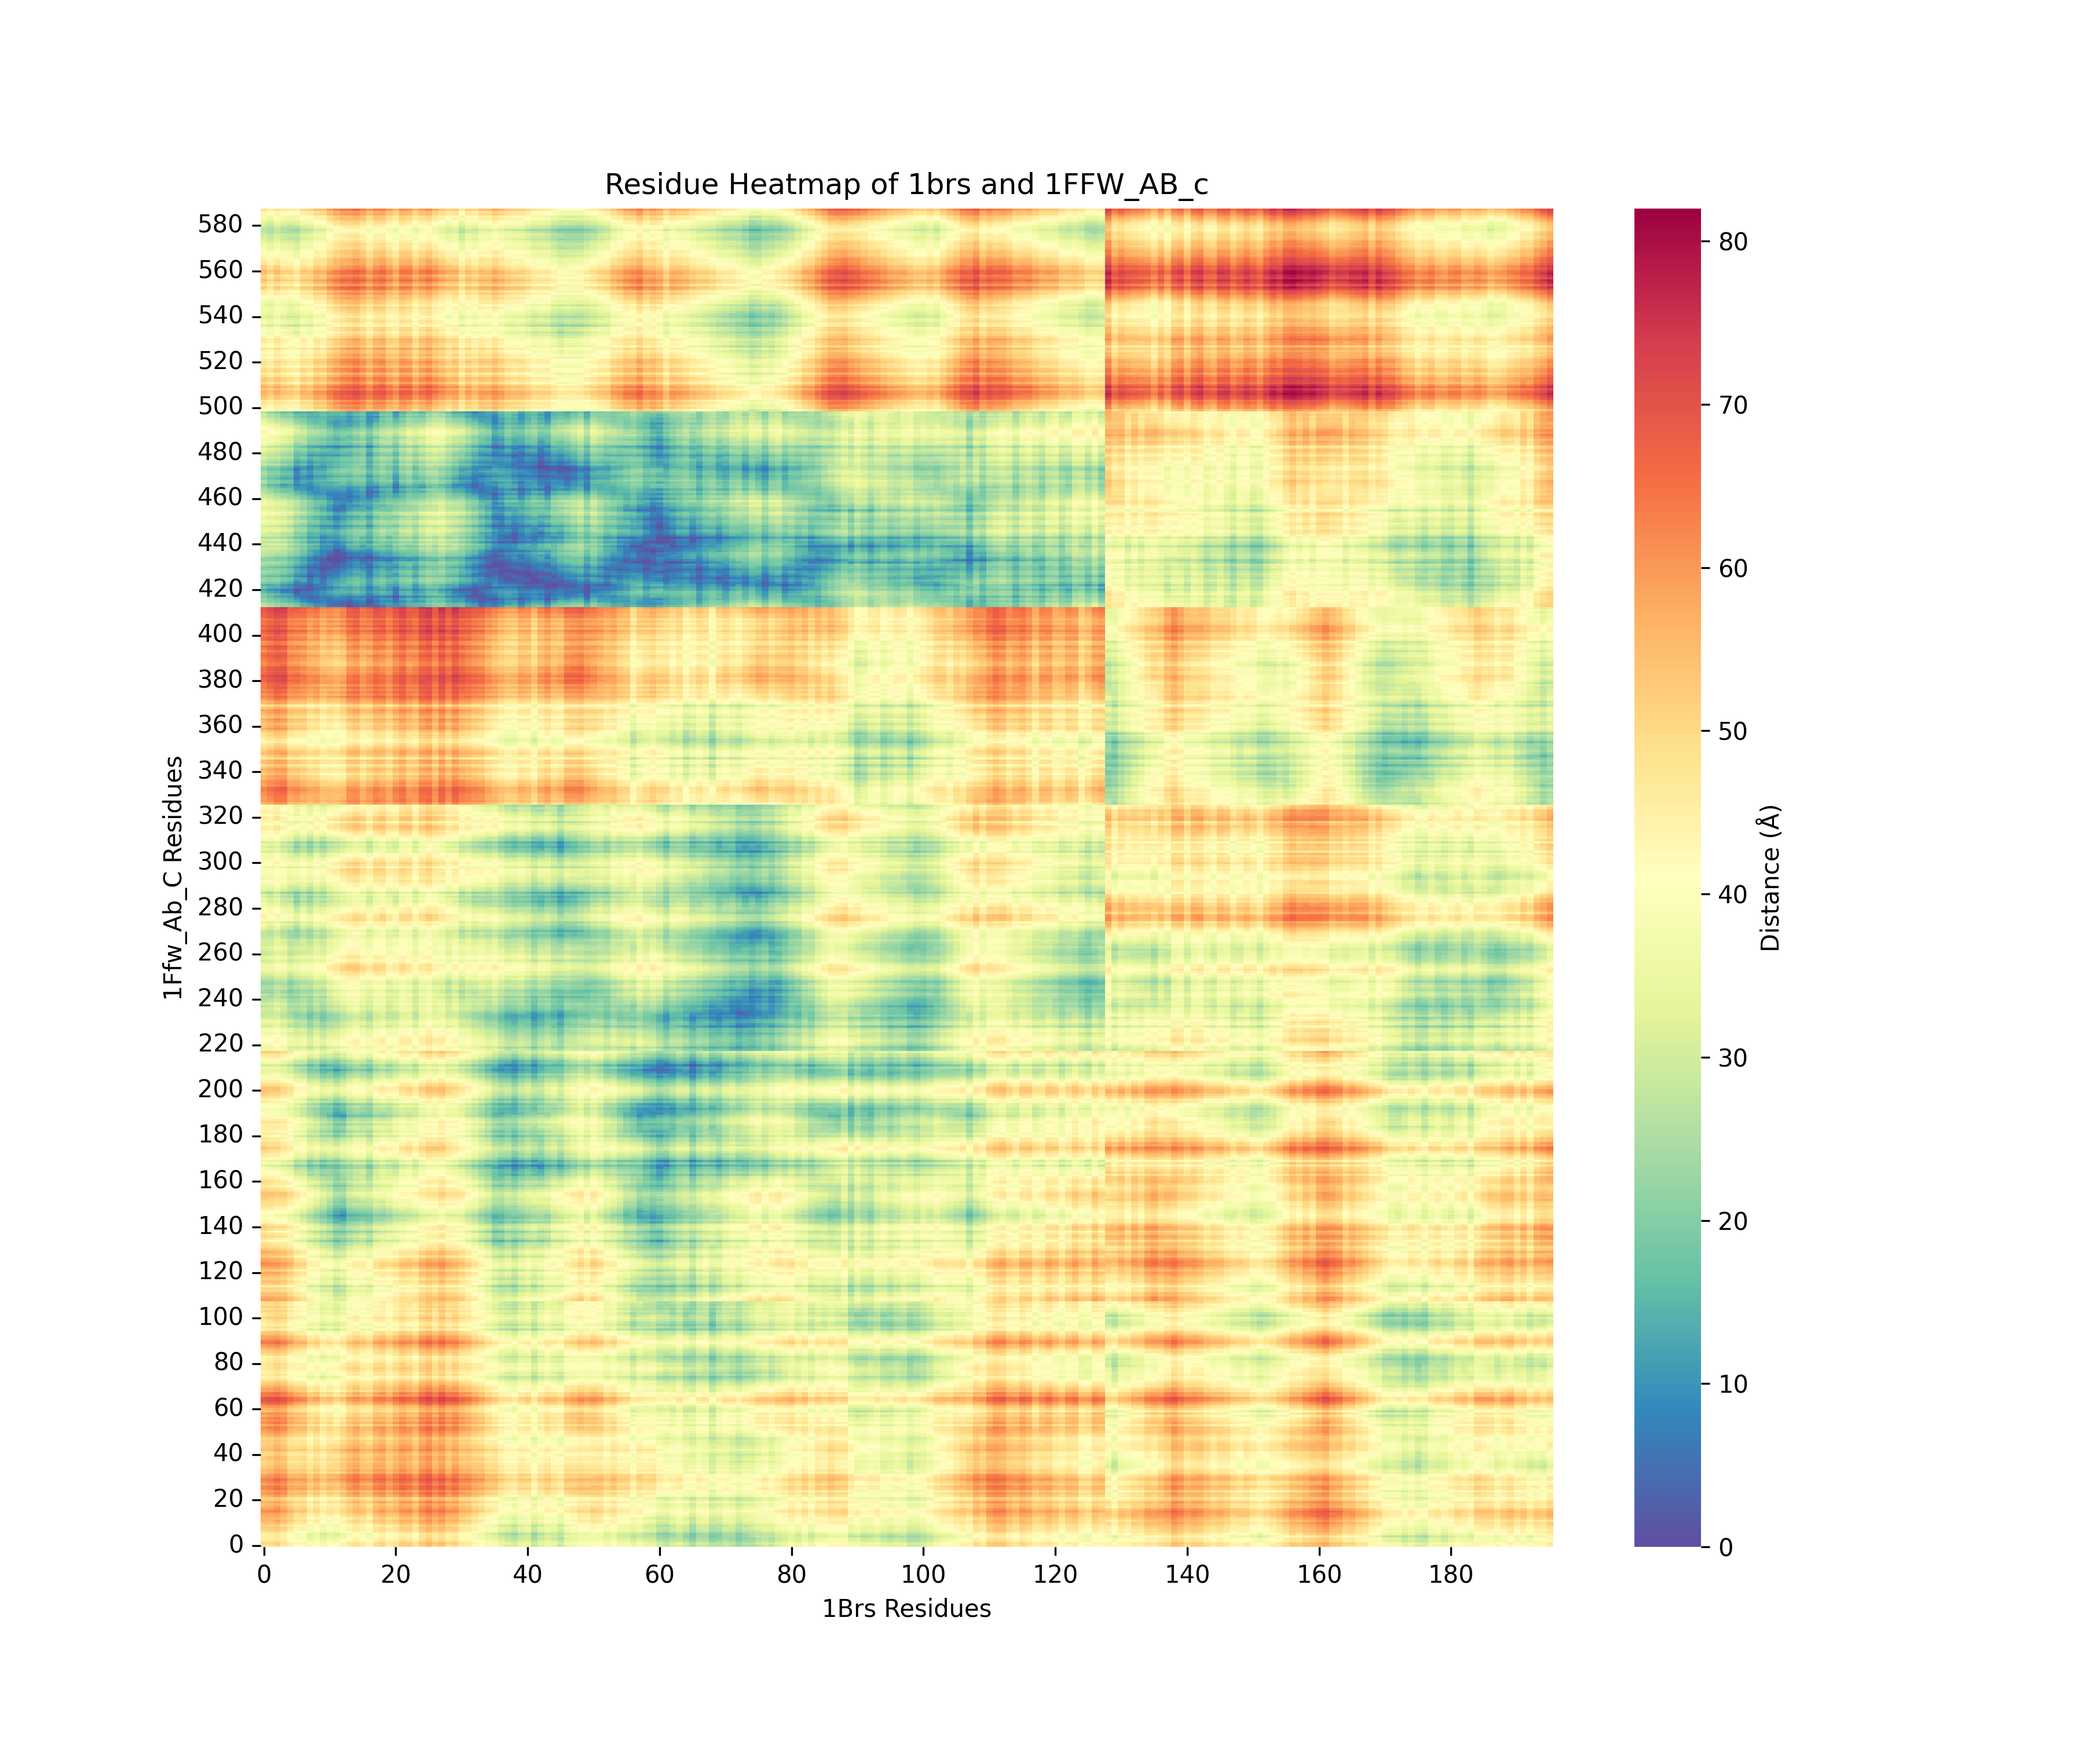
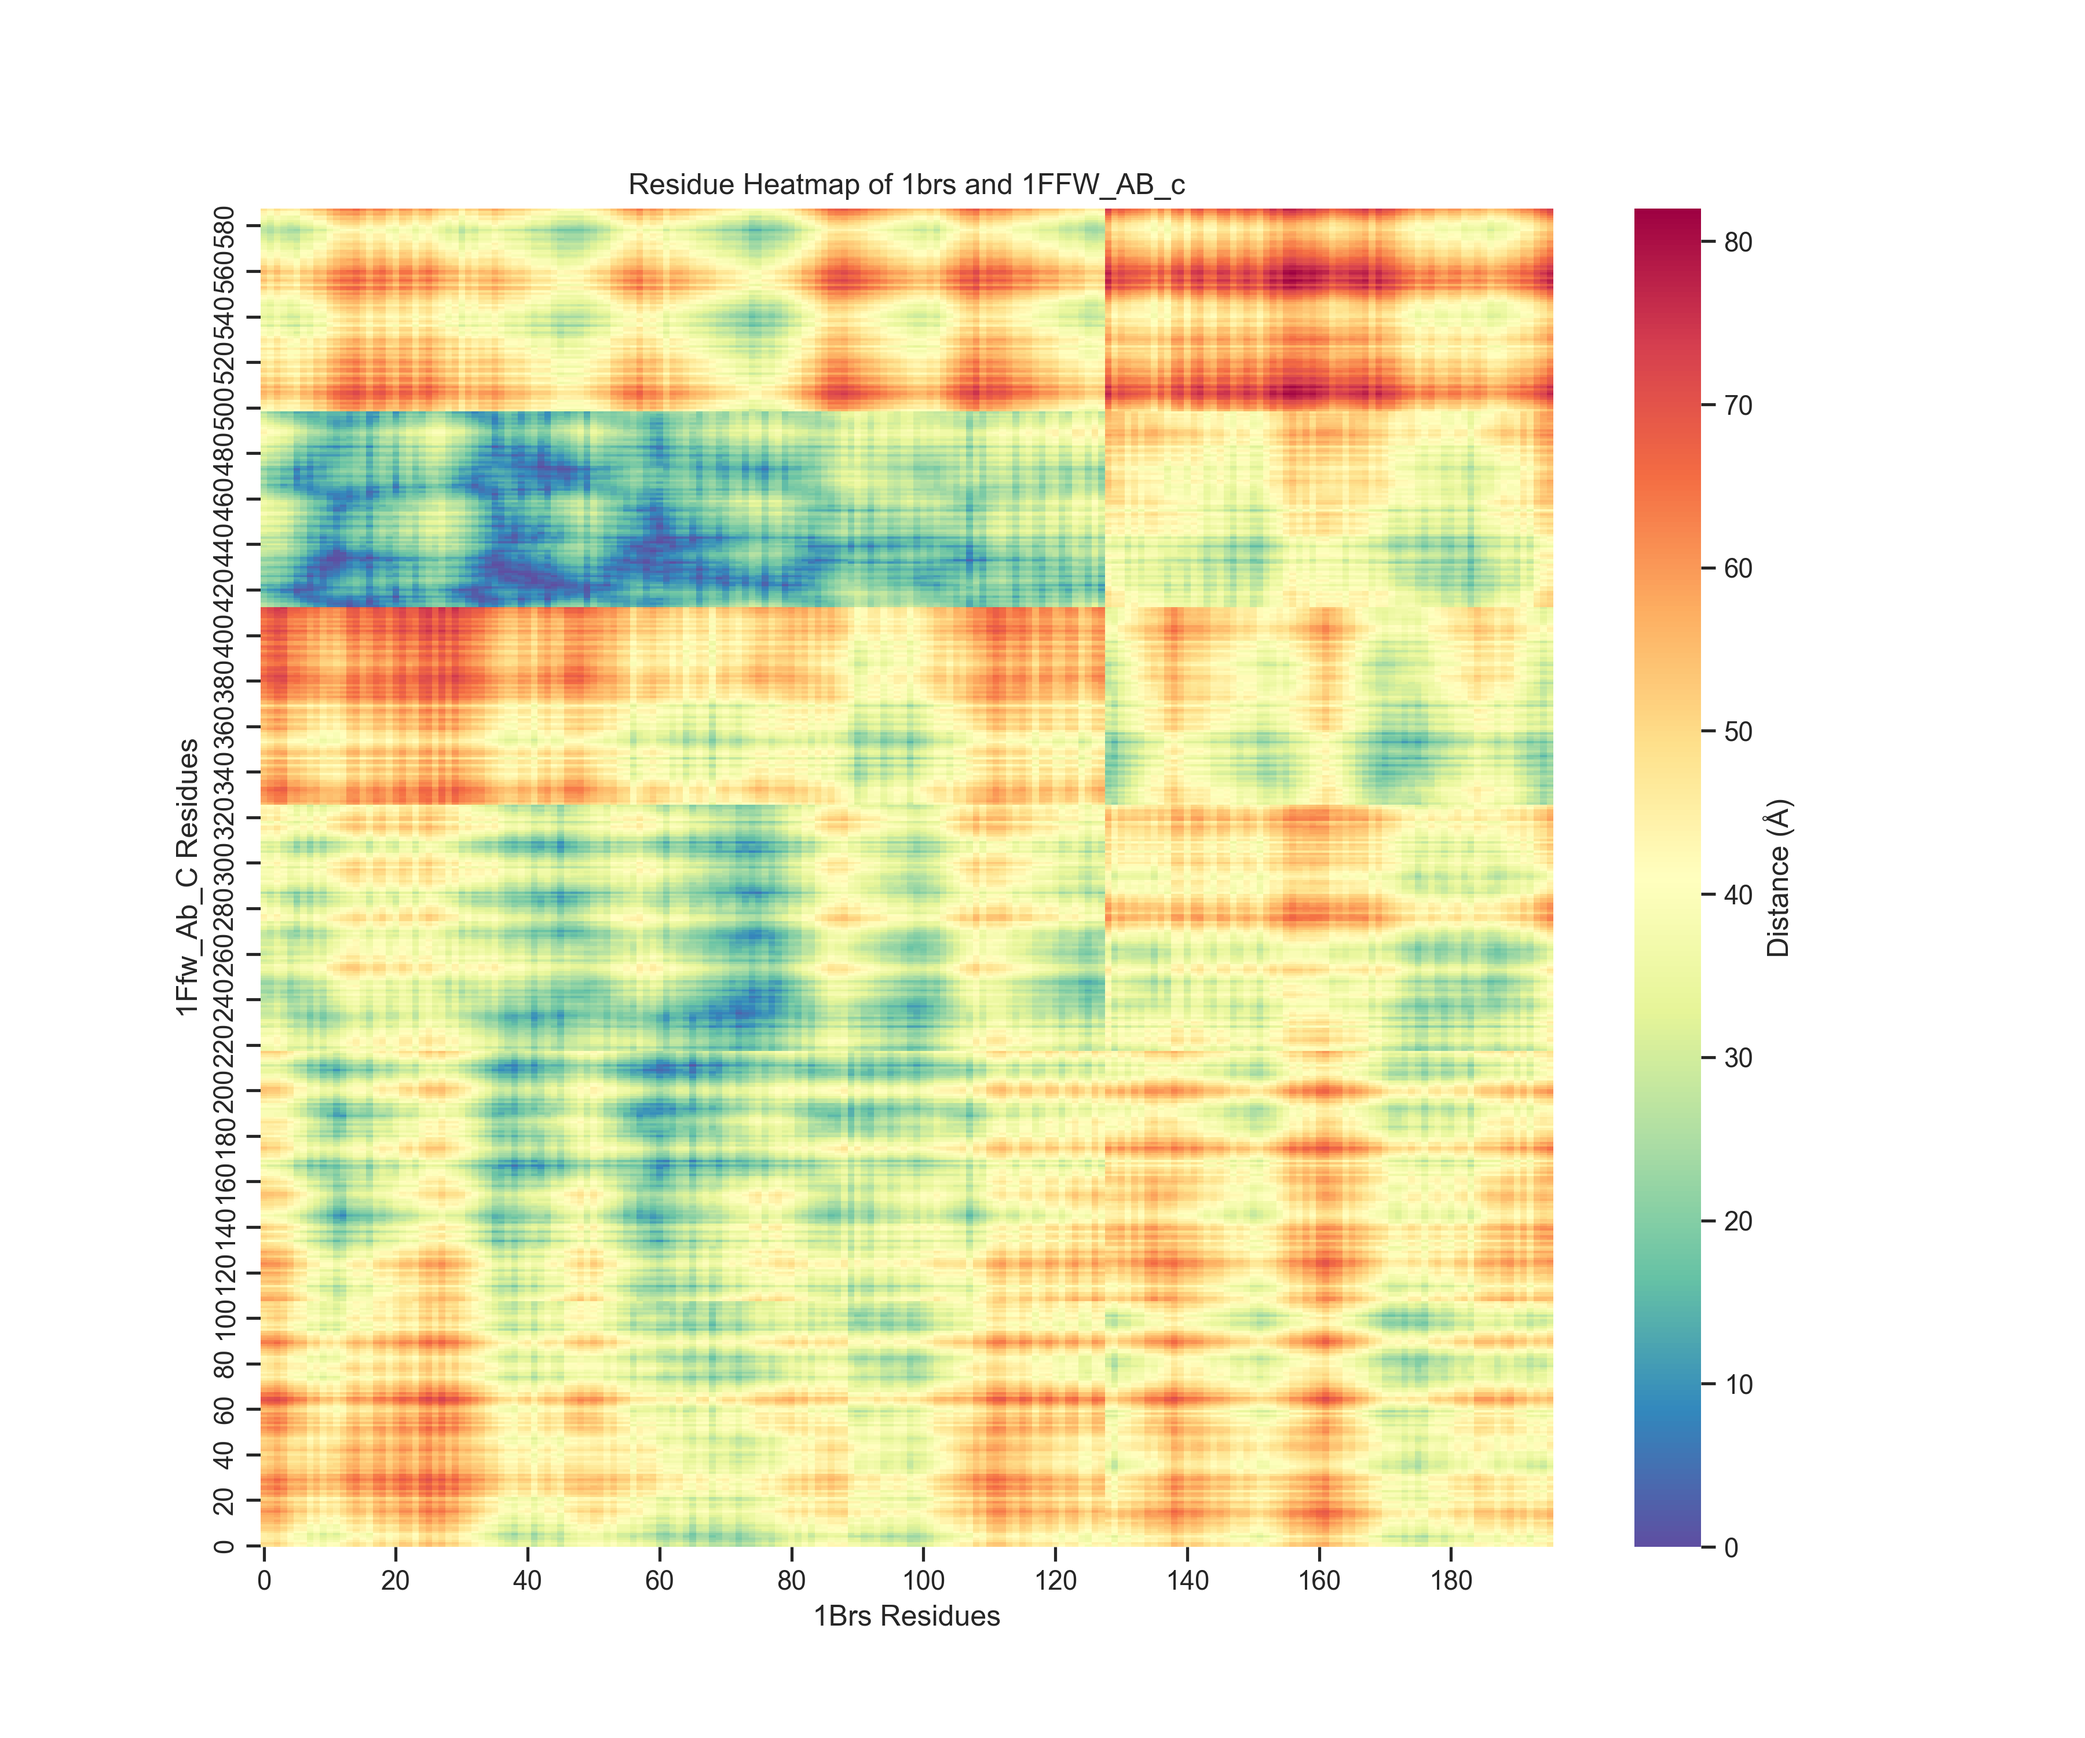
Refactor and document visualization functions
- Simplified the density_mapper function for better readability
- Added comprehensive docstrings to heat_mapper and density_mapper functions
- Resolved legend issue in density_mapper function

diff --git a/src/visualizations.py b/src/visualizations.py
@@ -37,3 +37,56 @@ def heat_mapper(data: list, residue_one: str = "PDB One", residue_two: str = "PD
 
     # Close the figure to free up memory
     plt.close()
+
+
+def density_mapper(distances):
+    """
+    This function generates a series of Kernel Density Estimation (KDE) plots for a given list of distances.
+    Each plot corresponds to a different threshold value.
+
+    Parameters:
+    distances (list): A list of lists, where each sublist represents the distances for a specific threshold.
+
+    Returns:
+    None: The function saves the generated plots as a .png file and does not return any value.
+    """
+    # Set the style of the plots
+    sns.set(style="ticks")
+
+    # Generate a color palette for the plots
+    palette = sns.color_palette("tab10", len(distances))
+
+    # Create a new figure with specific size
+    fig, axes = plt.subplots(3, 3, figsize=(15, 10))
+
+    # For each distance list in the distances list
+    for i, ax in enumerate(axes.flatten()[:7]):
+        # Generate a KDE plot for the current distance list
+        sns.kdeplot(distances[i], fill=True, ax=ax, color=palette[i % 10], label=f'Threshold {i + 4}')
+
+        # Set the labels for the x and y axes
+        ax.set_xlabel('Distance (Å)', fontsize=12)
+        ax.set_ylabel('Density', fontsize=12)
+
+        # Set the parameters for the ticks on both axes
+        ax.tick_params(axis='both', which='major', labelsize=10)
+
+        # Add a legend to the plot
+        ax.legend(fontsize=10, loc='upper left')
+
+    # For the remaining subplots that are not used, turn off the axis
+    for ax in axes.flatten()[7:]:
+        ax.axis('off')
+
+    # Adjust the spacing between the subplots
+    plt.subplots_adjust(hspace=0.4, wspace=0.3)
+
+    # Adjust the layout of the subplots to fit the figure area
+    plt.tight_layout()
+
+    # Save the figure as a .png file
+    plt.savefig('../data/density_plot.png', dpi=300)
+
+    # Close the figure to free up memory
+    plt.close()
+

diff --git a/src/main.py b/src/main.py
@@ -1,5 +1,5 @@
 from pprint import pprint
-
+import argparse
 import pdb_analyzer
 import pdb_parser
 import atom_distance as ad
@@ -7,6 +7,8 @@ import visualizations as vis
 
 
 def main():
+    THRESHOLD: int = 5
+    # Parsing of the pdb file
     pdb_file = "../data/1brs.pdb"
     pdb_file_two = "../data/1FFW_AB_c.pdb"
 
@@ -31,7 +33,6 @@ def main():
     # Lists all the residues in the pdb dictionary
     residues = pdb_analyzer.residue_list(pdb_data)
     residues_two = pdb_analyzer.residue_list(pdf_data_2)
-    # pprint(residues[:10])
 
     # Returns one residue
     residue_1 = pdb_data["A"]["8"]
@@ -40,14 +41,25 @@ def main():
     # Manipulation of the pdb file
     print(f"shortest: {ad.calculate_distance("atom", residue_1, residue_2)}")
     print(f"centroid: {ad.calculate_distance("centroid", residue_1, residue_2)}")
+    # Inter chain contact card
+    chain_one_residues = pdb_analyzer.residues_in_chain(pdb_data, "A")
+    chain_two_residues = pdb_analyzer.residues_in_chain(pdb_data, "B")
+    pprint(chain_one_residues)
 
     # Get the contact card for residues on different pdb chains
-    contact_card = ad.residue_residue(residues, residues_two)
-    # shape of contact 2d list
-    # print(len(contact_card))
-    pprint(contact_card)
+    border_residues = []
+    for threshold in range(4, 11):
+        contact_card_chains = ad.residue_residue(chain_one_residues, chain_two_residues, threshold=threshold)
+        border_residues.append(contact_card_chains)
 
+    vis.density_mapper(border_residues)
+    # generate heat map
+    # vis.heat_mapper(contact_card_chains, "chain_a", "chain_b")
+    # Get the contact card for residues on the pdb file
+    contact_card = ad.residue_residue(residues, residues_two)
+    # generate heat map
     vis.heat_mapper(contact_card, name1, name2)
+
     # move to output file
     with open("../data/contact_card.txt", "w") as f:
         for row in contact_card:

diff --git a/src/atom_distance.py b/src/atom_distance.py
@@ -85,7 +85,7 @@ def calculate_distance(mode: str, first_residue: list, second_residue: list) -> 
         return euclidean_distance(centroid_1, centroid_2)
 
 
-def residue_residue(residue1: list, residue2: list) -> list:
+def residue_residue(residue1: list, residue2: list,threshold:int = 0) -> list:
     """
     This function calculates the minimum distance between all pairs of residues in two given sets of residues.
 
@@ -103,10 +103,16 @@ def residue_residue(residue1: list, residue2: list) -> list:
     residue in the first set and the j-th residue in the second set.
     """
     contact_list = []
+    border_residues = []
     for residue_one in residue1:
         distances = []
         for residue_two in residue2:
             distance = calculate_distance("atom", residue_one, residue_two)
-            distances.append(int(distance))
+            if not threshold:
+                distances.append(int(distance))
+            else:
+                if distance < threshold:
+                    border_residues.append(distance)
         contact_list.append(distances)
-    return contact_list
+
+    return border_residues if border_residues else contact_list

diff --git a/src/pdb_analyzer.py b/src/pdb_analyzer.py
@@ -69,3 +69,20 @@ def residue_list(pdb_data: dict) -> list:
         for residue in pdb_data[chain]:
             response.append(pdb_data[chain][residue])
     return response
+
+
+def residues_in_chain(pdb_data: dict, chain: str) -> list:
+    """
+    This function generates a list of all residues in a given chain of the pdb data.
+
+    :param pdb_data: A dictionary representing the pdb data. It is expected to have a key "chains"
+                     which contains another dictionary. The keys of this inner dictionary are the
+                     chain names and the values are dictionaries representing residues in the chain.
+    :param chain: A string representing the name of the chain for which the residues are to be listed.
+
+    :return: A list of dictionaries. Each dictionary represents a residue in the given chain.
+    """
+    response = []
+    for residue in pdb_data[chain]:
+        response.append(pdb_data[chain][residue])
+    return response
